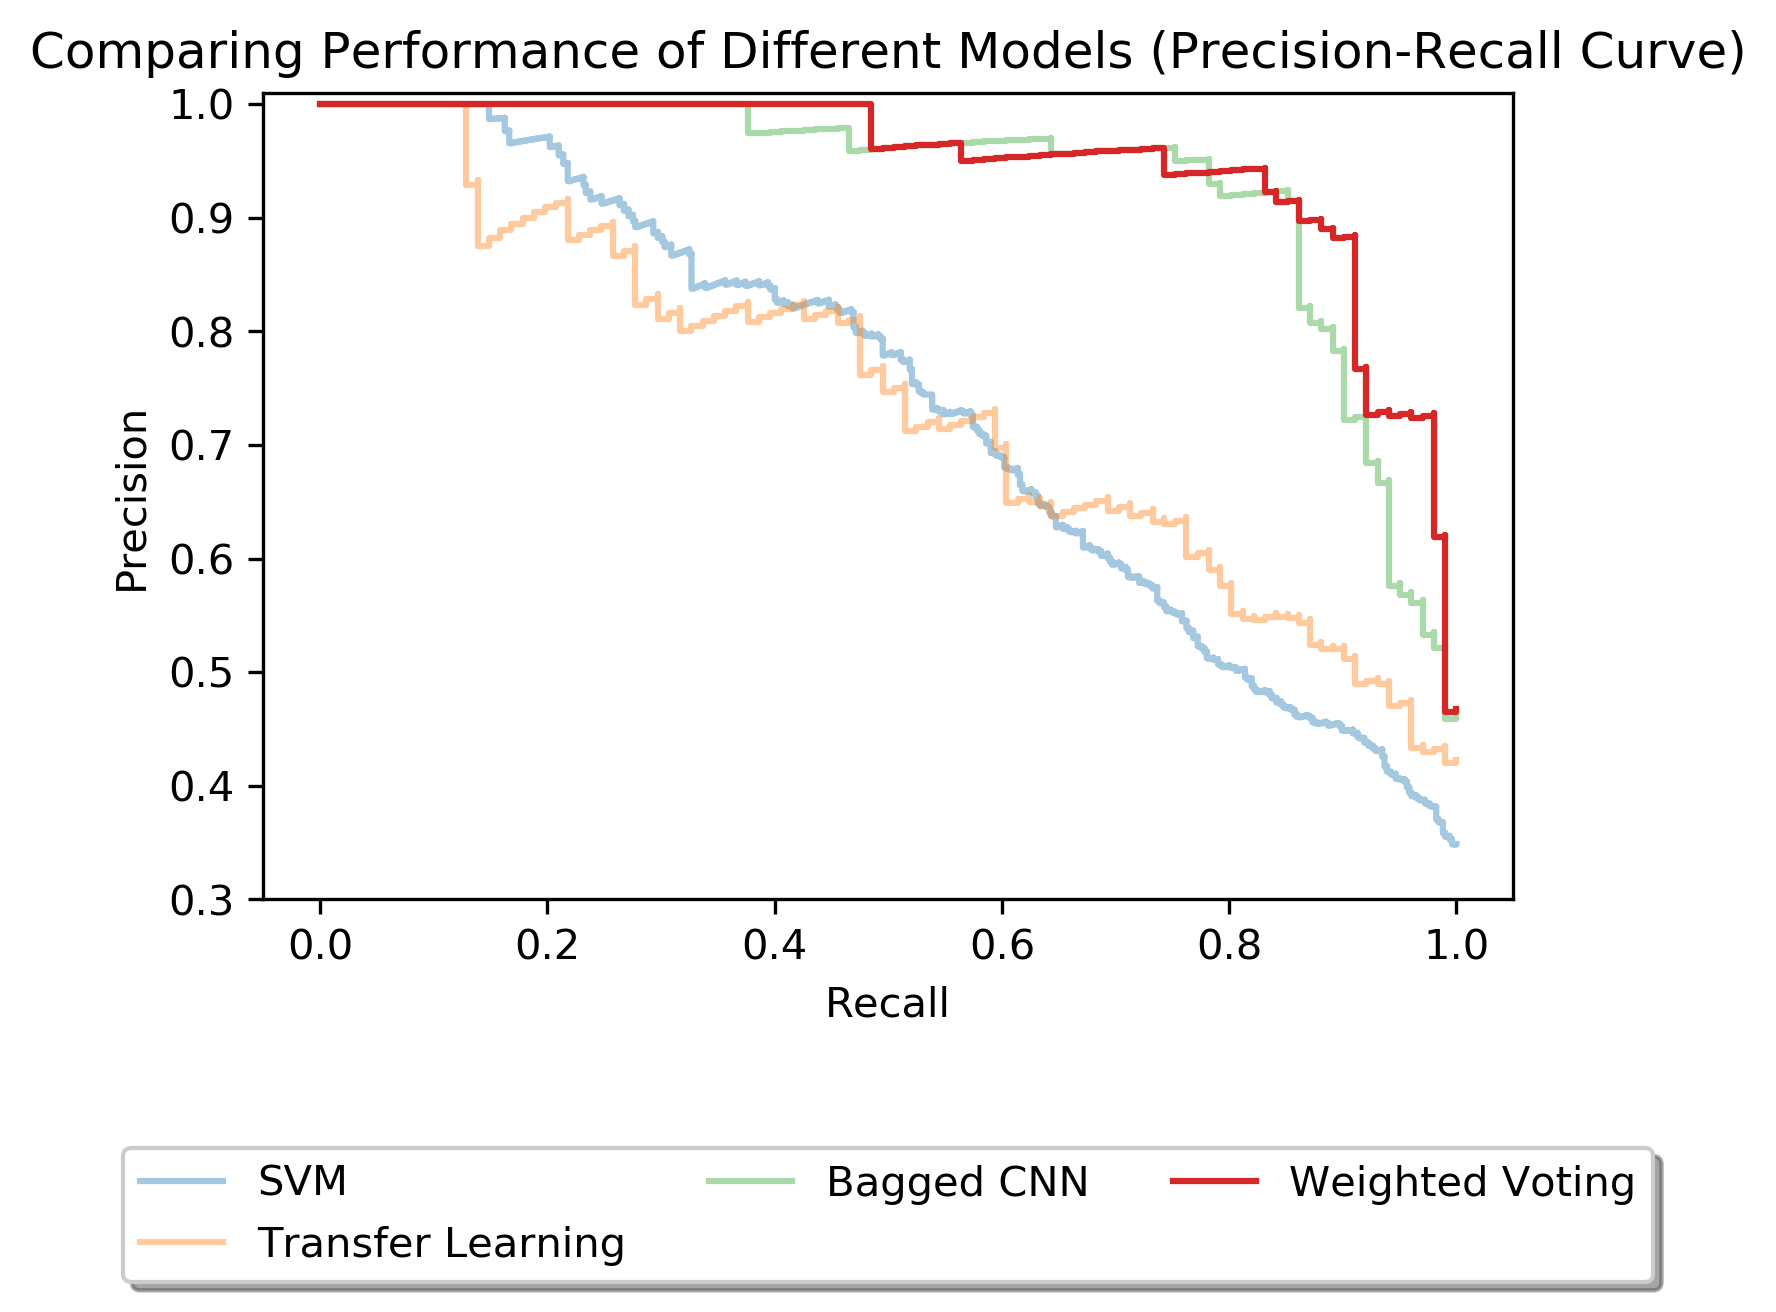
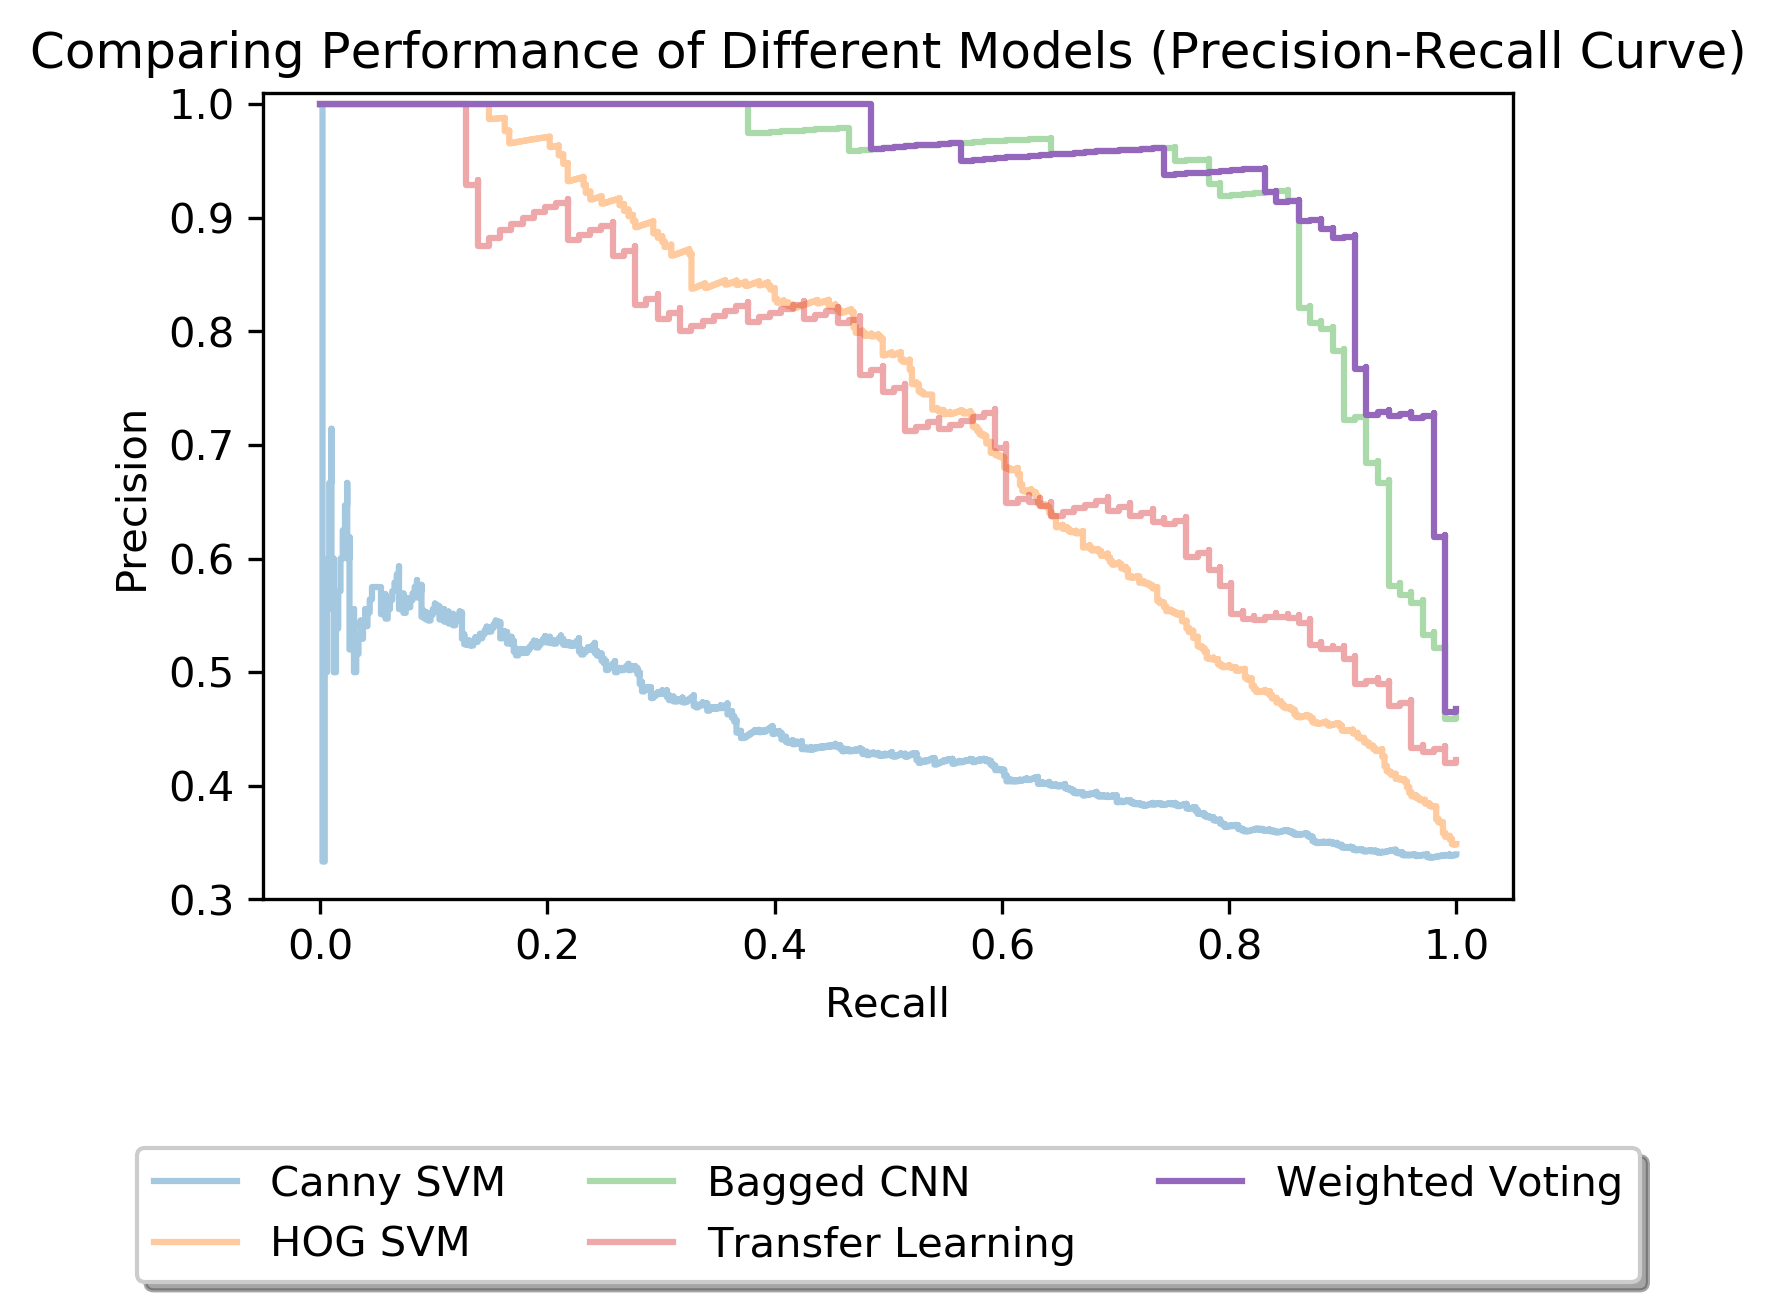
added canny svm model

diff --git a/performance_plots.py b/performance_plots.py
@@ -18,8 +18,12 @@ X, _, y, y_super_test = train_test_split(imgs, labels,
                                          random_state=42,
                                          stratify=labels)
 
-svm_preds = np.load('data/svm_train_preds.npy',
-                    allow_pickle=True)
+canny_svm_preds = np.load('data/canny_svm_train_preds.npy',
+                          allow_pickle=True)
+
+hog_svm_preds = np.load('data/hog_svm_train_preds.npy',
+                        allow_pickle=True)
+
 cnn_preds = np.load('data/cv_cnn_train_preds.npy',
                     allow_pickle=True)
 transfer_preds = np.load('data/transfer_cnn_train_preds.npy',
@@ -27,19 +31,22 @@ transfer_preds = np.load('data/transfer_cnn_train_preds.npy',
 
 bagged_cnn_preds = np.load('data/cv_cnn_super_preds.npy',
                            allow_pickle=True)
-ensemble_preds = 3*bagged_cnn_preds+transfer_preds+svm_preds[super_idx]
+ensemble_preds = 3*bagged_cnn_preds+transfer_preds+hog_svm_preds[super_idx]
 ensemble_preds = ensemble_preds/5
 
-model_preds = [svm_preds, transfer_preds,
-               bagged_cnn_preds, ensemble_preds]
+model_preds = [canny_svm_preds, hog_svm_preds,
+               bagged_cnn_preds,
+               transfer_preds,
+                ensemble_preds]
 
-model_names = ['SVM',
-               'Transfer Learning',
+model_names = ['Canny SVM',
+               'HOG SVM',
                'Bagged CNN',
+               'Transfer Learning',
                'Weighted Voting']
 
 
-y_vals = [labels, y_super_test, y_super_test, y_super_test]
+y_vals = [labels, labels, y_super_test, y_super_test, y_super_test]
 
 # %%
 
@@ -79,8 +86,12 @@ plt.savefig('report/figures/all_roc.png', dpi=300, bbox_inches='tight')
 # %%
 
 plot_prediction_samples(imgs, labels,
-                        svm_preds, 'SVM Prediction Samples')
-plt.savefig('report/figures/svm_confmat.png', dpi=300)
+                        canny_svm_preds, 'Canny SVM Prediction Samples')
+plt.savefig('report/figures/canny_svm_confmat.png', dpi=300)
+
+plot_prediction_samples(imgs, labels,
+                        hog_svm_preds, 'HOG SVM Prediction Samples')
+plt.savefig('report/figures/hog_svm_confmat.png', dpi=300)
 
 plot_prediction_samples(imgs[super_idx], y_super_test,
                         ensemble_preds, 'Weighted Voting Prediction Samples')
@@ -99,16 +110,17 @@ plt.savefig('report/figures/bagged_cnn_confmat.png', dpi=300)
 fig, ax = plt.subplots(1, 1)
 y_true = labels
 for name, y_pred, y_true in zip(model_names, model_preds, y_vals):
-    precision, recall, _ = metrics.precision_recall_curve(y_true, y_pred, pos_label=1)
+    precision, recall, _ = metrics.precision_recall_curve(
+        y_true, y_pred, pos_label=1)
     alpha = .4
     if(name == 'Weighted Voting'):
         alpha = 1
 
     ax.step(recall, precision, label=name, alpha=alpha)
 
-ax.set(ylabel='Precision',xlabel='Recall')
+ax.set(ylabel='Precision', xlabel='Recall')
 ax.axis('square')
-ax.set_ylim(0.3,1.01)
+ax.set_ylim(0.3, 1.01)
 # Shrink current axis's height by 10% on the bottom
 box = ax.get_position()
 ax.set_position([box.x0, box.y0 + box.height * 0.1,
@@ -133,17 +145,19 @@ for i, (_, val_idx) in enumerate(skf.split(X, y)):
     y_pred, y_true = cnn_preds[val_idx], y[val_idx]
 
     fpr, tpr, _ = metrics.roc_curve(y_true, y_pred, pos_label=1)
-    precision, recall, _ = metrics.precision_recall_curve(y_true, y_pred, pos_label=1)
-    ax1.step(recall, precision, label= f'subset {i}', alpha=alpha)
+    precision, recall, _ = metrics.precision_recall_curve(
+        y_true, y_pred, pos_label=1)
+    ax1.step(recall, precision, label=f'subset {i}', alpha=alpha)
     auc = metrics.roc_auc_score(y_true, y_pred)
     legend_string = f'subset {i} ; AUC = {auc:0.3f}'
     alpha = .4
     ax2.plot(fpr, tpr, ls='--', label=legend_string, alpha=alpha)
 
 
-precision, recall, _ = metrics.precision_recall_curve(y_super_test, bagged_cnn_preds, pos_label=1)
+precision, recall, _ = metrics.precision_recall_curve(
+    y_super_test, bagged_cnn_preds, pos_label=1)
 ax1.step(recall, precision, label='Bagged CNN')
-ax1.set(ylabel='Precision',xlabel='Recall')
+ax1.set(ylabel='Precision', xlabel='Recall')
 
 ax2.plot([0, 1], [0, 1], '--', color='gray', label='Chance')
 
@@ -151,7 +165,7 @@ fpr, tpr, _ = metrics.roc_curve(y_super_test, bagged_cnn_preds, pos_label=1)
 auc = metrics.roc_auc_score(y_super_test, bagged_cnn_preds)
 ax2.plot(fpr, tpr, label=f'Bagged CNN ; AUC = {auc:0.3f}')
 ax2.set(xlabel='False Positive Rate',
-       ylabel='True Positive Rate')
+        ylabel='True Positive Rate')
 
 ax1.grid(True)
 ax1.axis('square')
@@ -162,20 +176,21 @@ ax2.axis('square')
 
 box = ax1.get_position()
 ax1.set_position([box.x0, box.y0 + box.height * 0.1,
-                 box.width, box.height * 0.9])
+                  box.width, box.height * 0.9])
 
 box = ax.get_position()
 ax2.set_position([box.x0, box.y0 + box.height * 0.1,
-                 box.width, box.height * 0.9])
+                  box.width, box.height * 0.9])
 labels = [f'subset {i}' for i in range(5)]
 labels.append('Bagged CNN')
 fig.tight_layout()
 fig.suptitle('Bagging Multiple CNN Models, Trained on Subsets of The Same Data')
 fig.legend(loc='lower center',
-          ncol=3,
-          labels=labels,
-          fancybox=True,
-          shadow=True)
+           ncol=3,
+           labels=labels,
+           fancybox=True,
+           shadow=True)
 
 
-plt.savefig('report/figures/bagged_cnn_compare.png', dpi=300, bbox_inches='tight')
+plt.savefig('report/figures/bagged_cnn_compare.png',
+            dpi=300, bbox_inches='tight')
